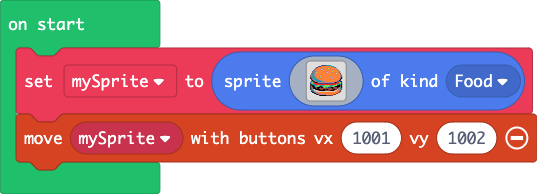
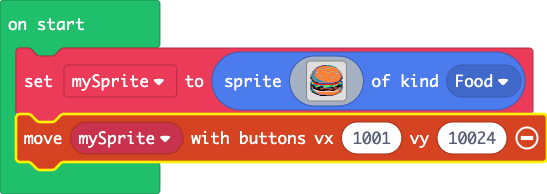
Update pxt.json, main.blocks, main.ts

diff --git a/main.ts b/main.ts
@@ -1,35 +1,35 @@
 let mySprite = sprites.create(img`
-    . . . . . . . . . . . c c c c c 6 6 6 6 6 . . . . . . . . . . .
-    . . . . . . . . c c c 4 4 4 4 4 4 4 4 4 4 6 6 6 . . . . . . . .
-    . . . . . . c c 4 4 4 4 4 4 4 4 4 b b 4 4 4 4 4 6 6 . . . . . .
-    . . . . . c b 4 4 4 4 b b 4 4 4 4 b 5 b 4 4 4 4 4 4 b . . . . .
-    . . . . e b 4 4 4 4 b 5 b 4 4 4 4 4 b 4 4 4 4 4 4 4 4 b . . . .
-    . . . e b b 4 4 4 4 4 b 4 4 4 4 4 4 4 4 4 4 b 4 4 4 4 4 6 . . .
-    . . e b 6 b b 4 4 4 4 4 4 4 4 4 b b 4 4 4 b 5 b 4 4 4 4 4 6 . .
-    . . e 6 b b 5 b 4 4 4 4 4 4 4 4 b 5 b 4 4 4 b 4 4 b b 4 4 e . .
-    . e 6 6 b 4 b 4 4 4 4 4 4 4 4 4 4 b 4 4 4 4 4 4 4 b 5 b 4 4 e .
-    . e 6 b b 4 4 4 4 4 4 4 4 4 4 4 4 4 4 4 4 4 4 4 4 4 b b 4 4 e .
-    e b 6 6 b 4 4 4 4 4 b b 4 4 4 4 4 4 4 4 4 4 4 4 4 4 4 4 4 4 b e
-    e b 6 6 b b 4 4 4 b 5 b 4 4 4 4 4 4 4 4 b b 4 4 4 4 4 4 4 4 b e
-    f b 6 6 6 b 4 4 4 b b 4 4 4 4 4 4 4 4 4 b 5 b 4 4 4 4 4 4 4 b f
-    f c b 6 6 6 b 4 4 4 4 4 4 4 4 4 4 4 4 4 4 b b 4 4 4 4 4 4 b c f
-    . f b b 6 6 6 6 b 4 4 4 4 4 4 4 4 4 4 4 4 4 4 4 4 4 4 4 4 b f .
-    . e f b b 6 6 6 6 6 b b 4 4 4 4 4 4 4 4 4 4 4 4 4 4 4 4 b f e .
-    . 8 6 f c b b 6 6 6 6 6 b b b 4 4 4 4 4 4 4 4 4 4 4 b c c 6 8 8
-    8 7 7 2 e f f c b b b b b b b b b b b b b b b b c f c 2 2 7 7 8
-    8 7 7 2 2 2 2 2 c c c c c c c c c c c c c c c c 2 2 2 2 6 6 7 8
-    f 8 6 6 6 2 2 2 2 2 2 2 2 2 2 2 2 2 2 2 2 2 2 2 2 2 7 6 6 8 6 f
-    f e f 8 6 6 6 7 7 7 6 6 6 6 7 7 7 7 7 7 6 6 6 7 7 7 7 f f f e f
-    f b f f 8 7 7 7 6 8 f 8 6 7 7 7 7 7 7 6 6 6 7 7 6 f f f f f b f
-    f b e f f e e f f f e f f 7 7 6 6 6 8 8 e f f e e e e f e b 6 f
-    f 6 b f f f e f f e e e e e e e e e e e e e f e e e e e b b 6 e
-    f 6 6 d d f f f f f e e e f f e f f e e e e e f f e e d b 4 6 e
-    . c 6 6 d d d 4 e f f f f f f e e e e e f f f f 4 d d b 4 6 e .
-    . f c 6 b 4 d d d d d d d d d d d d d d d d d d d b 4 4 4 e e .
-    . . f f 6 b b 4 4 4 4 4 4 4 4 4 4 4 4 4 4 4 4 4 4 4 4 4 e e . .
-    . . . . f f b b b b 4 4 4 4 4 4 4 4 4 4 4 4 4 4 4 4 e e . . . .
-    . . . . . . f f e b b b b b b 4 4 4 4 4 4 4 4 e e e . . . . . .
-    . . . . . . . . . f f f f f f f c c c c c e e . . . . . . . . .
-    . . . . . . . . . . . . . . . . . . . . . . . . . . . . . . . .
+. . . . . . . . . . . c c c c c 6 6 6 6 6 . . . . . . . . . . . 
+. . . . . . . . c c c 4 4 4 4 4 4 4 4 4 4 6 6 6 . . . . . . . . 
+. . . . . . c c 4 4 4 4 4 4 4 4 4 b b 4 4 4 4 4 6 6 . . . . . . 
+. . . . . c b 4 4 4 4 b b 4 4 4 4 b 5 b 4 4 4 4 4 4 b . . . . . 
+. . . . e b 4 4 4 4 b 5 b 4 4 4 4 4 b 4 4 4 4 4 4 4 4 b . . . . 
+. . . e b b 4 4 4 4 4 b 4 4 4 4 4 4 4 4 4 4 b 4 4 4 4 4 6 . . . 
+. . e b 6 b b 4 4 4 4 4 4 4 4 4 b b 4 4 4 b 5 b 4 4 4 4 4 6 . . 
+. . e 6 b b 5 b 4 4 4 4 4 4 4 4 b 5 b 4 4 4 b 4 4 b b 4 4 e . . 
+. e 6 6 b 4 b 4 4 4 4 4 4 4 4 4 4 b 4 4 4 4 4 4 4 b 5 b 4 4 e . 
+. e 6 b b 4 4 4 4 4 4 4 4 4 4 4 4 4 4 4 4 4 4 4 4 4 b b 4 4 e . 
+e b 6 6 b 4 4 4 4 4 b b 4 4 4 4 4 4 4 4 4 4 4 4 4 4 4 4 4 4 b e 
+e b 6 6 b b 4 4 4 b 5 b 4 4 4 4 4 4 4 4 b b 4 4 4 4 4 4 4 4 b e 
+f b 6 6 6 b 4 4 4 b b 4 4 4 4 4 4 4 4 4 b 5 b 4 4 4 4 4 4 4 b f 
+f c b 6 6 6 b 4 4 4 4 4 4 4 4 4 4 4 4 4 4 b b 4 4 4 4 4 4 b c f 
+. f b b 6 6 6 6 b 4 4 4 4 4 4 4 4 4 4 4 4 4 4 4 4 4 4 4 4 b f . 
+. e f b b 6 6 6 6 6 b b 4 4 4 4 4 4 4 4 4 4 4 4 4 4 4 4 b f e . 
+. 8 6 f c b b 6 6 6 6 6 b b b 4 4 4 4 4 4 4 4 4 4 4 b c c 6 8 8 
+8 7 7 2 e f f c b b b b b b b b b b b b b b b b c f c 2 2 7 7 8 
+8 7 7 2 2 2 2 2 c c c c c c c c c c c c c c c c 2 2 2 2 6 6 7 8 
+f 8 6 6 6 2 2 2 2 2 2 2 2 2 2 2 2 2 2 2 2 2 2 2 2 2 7 6 6 8 6 f 
+f e f 8 6 6 6 7 7 7 6 6 6 6 7 7 7 7 7 7 6 6 6 7 7 7 7 f f f e f 
+f b f f 8 7 7 7 6 8 f 8 6 7 7 7 7 7 7 6 6 6 7 7 6 f f f f f b f 
+f b e f f e e f f f e f f 7 7 6 6 6 8 8 e f f e e e e f e b 6 f 
+f 6 b f f f e f f e e e e e e e e e e e e e f e e e e e b b 6 e 
+f 6 6 d d f f f f f e e e f f e f f e e e e e f f e e d b 4 6 e 
+. c 6 6 d d d 4 e f f f f f f e e e e e f f f f 4 d d b 4 6 e . 
+. f c 6 b 4 d d d d d d d d d d d d d d d d d d d b 4 4 4 e e . 
+. . f f 6 b b 4 4 4 4 4 4 4 4 4 4 4 4 4 4 4 4 4 4 4 4 4 e e . . 
+. . . . f f b b b b 4 4 4 4 4 4 4 4 4 4 4 4 4 4 4 4 e e . . . . 
+. . . . . . f f e b b b b b b 4 4 4 4 4 4 4 4 e e e . . . . . . 
+. . . . . . . . . f f f f f f f c c c c c e e . . . . . . . . . 
+. . . . . . . . . . . . . . . . . . . . . . . . . . . . . . . . 
 `, SpriteKind.Food)
-controller.moveSprite(mySprite, 1001, 1002)
+controller.moveSprite(mySprite, 1001, 10024)
